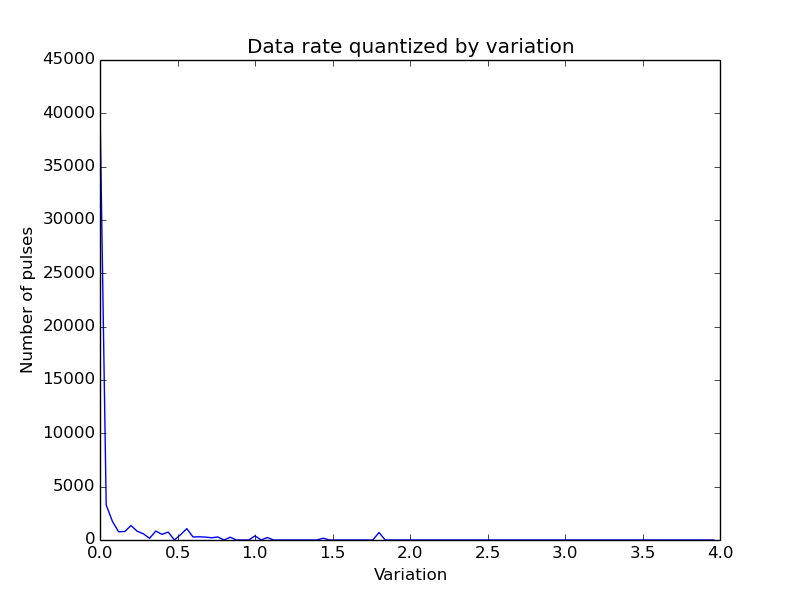
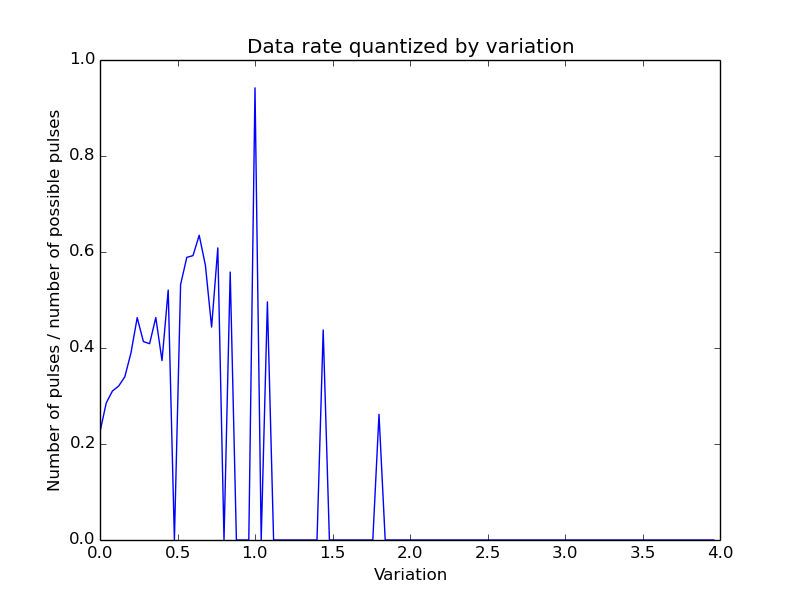
Plot data rate w.r.t instead of pulse count.

diff --git a/misc.py b/misc.py
@@ -46,39 +46,42 @@ try:
 
   # Data rate w.r.t variaiton
 
-  #  variation_step = 0.04
-  #  X = np.arange(0, 4, variation_step)
-  #  Y = []
-  #  
-  #  cur.execute('''SELECT timestamp, pulse_interval, pulse_variation
-  #                   FROM estinterval
-  #                  WHERE deploymentID = %s 
-  #                    AND timestamp >= %s
-  #                    AND timestamp <= %s
-  #                  ORDER BY timestamp''', (dep_id, t_start, t_end))
-  #
-  #  intervals = list(cur.fetchall())
-  #  
-  #  for variation in X:
-  #    total = 0
-  #    for i in range(len(intervals)-1):
-  #      if variation <= intervals[i][2] and intervals[i][2] < variation + variation_step:
-  #        cur.execute('''SELECT count(*)
-  #                         FROM est
-  #                        WHERE deploymentID = %s 
-  #                          AND timestamp >= %s
-  #                          AND timestamp < %s''', (
-  #                dep_id, intervals[i][0], intervals[i+1][0]))
-  #        (count,) = cur.fetchone()
-  #        total += count
-  #    Y.append(total)
-  #
-  #  pp.plot(X, Y)
-  #  pp.title("Data rate quantized by variation")
-  #  pp.xlabel("Variation")
-  #  pp.ylabel("Number of pulses")
-  #  pp.savefig('data_rate.png')
-  #  pp.clf()
+  variation_step = 0.04
+  X = np.arange(0, 4, variation_step)
+  Y = []
+  
+  cur.execute('''SELECT timestamp, pulse_interval, pulse_variation, duration
+                   FROM estinterval
+                  WHERE deploymentID = %s 
+                    AND timestamp >= %s
+                    AND timestamp <= %s
+                  ORDER BY timestamp''', (dep_id, t_start, t_end))
+
+  intervals = list(cur.fetchall())
+  
+  for variation in X:
+    total = 0
+    num_windows = 0
+    for i in range(len(intervals)-1):
+      if variation <= intervals[i][2] and intervals[i][2] < variation + variation_step:
+        cur.execute('''SELECT count(*)
+                         FROM est
+                        WHERE deploymentID = %s 
+                          AND timestamp >= %s
+                          AND timestamp < %s''', (
+                dep_id, intervals[i][0], intervals[i+1][0]))
+        (count,) = cur.fetchone()
+        theoretical_count = intervals[i][3] / intervals[i][1]
+        total += count / theoretical_count
+        num_windows += 1
+    Y.append(total if total == 0 else total / num_windows)
+
+  pp.plot(X, Y)
+  pp.title("Data rate quantized by variation")
+  pp.xlabel("Variation")
+  pp.ylabel("Number of pulses / number of possible pulses")
+  pp.savefig('data_rate.png')
+  pp.clf()
 
 
 except mdb.Error, e:
